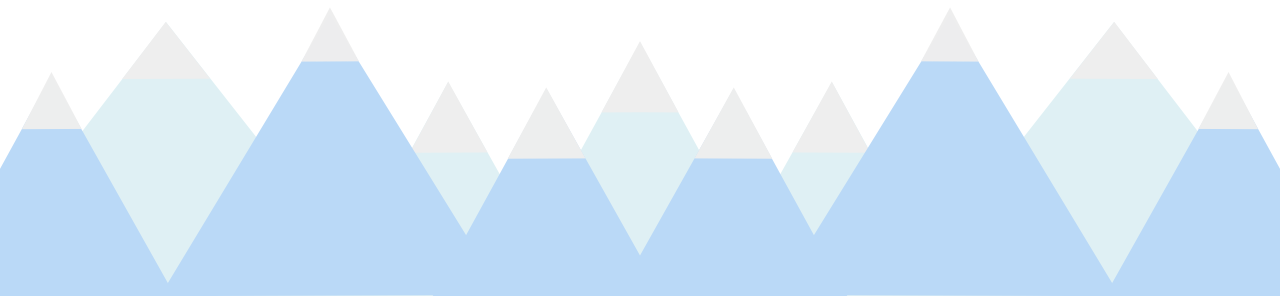
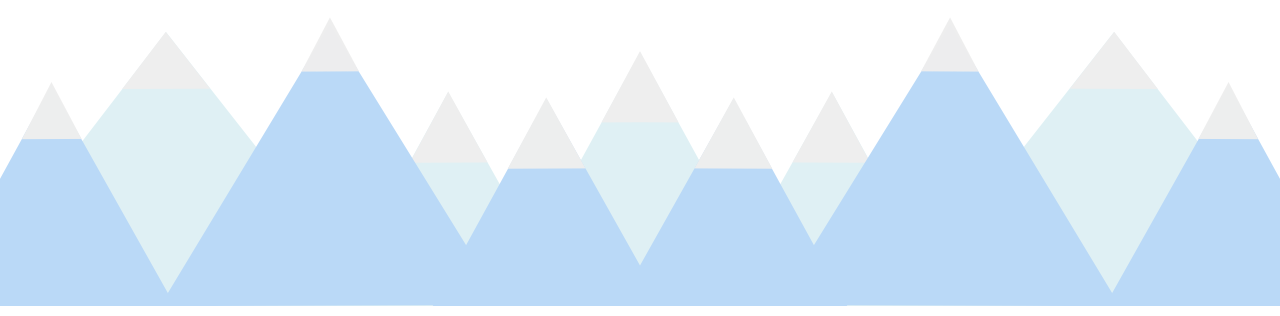
Added screen shaking

diff --git a/src/js/Game.js b/src/js/Game.js
@@ -26,7 +26,6 @@ CrashLanding.Game.prototype = {
         var bgColor = '#003e7b';
         this.game.shattered = {};
 
-
         this.game.shatteredIce = CrashLanding.Util.ShatterArray(this.game, 'sprites', ['icetile01', 'icetile02', 'icetile03']);
 
         this.game.waterExplode = this.game.add.audio('waterExplode');
@@ -35,7 +34,7 @@ CrashLanding.Game.prototype = {
         this.game.level1map = this.game.add.tilemap('level1');
         this.game.level1map.addTilesetImage('tileset', 'tiles');
         this.game.level1map.setCollisionByExclusion([]);
-        this.game.backgroundMountains = this.game.add.tileSprite(0, 64, this.game.level1map.widthInPixels, 296, 'mountainsbg');
+        this.game.backgroundMountains = this.game.add.tileSprite(0, 64, this.game.level1map.widthInPixels, 316, 'mountainsbg');
         this.game.backgroundMountains.fixedToCamera = true;
         this.game.world.sendToBack(this.game.backgroundMountains);
         this.game.layer1 = this.game.level1map.createLayer('Tile Layer 1');
@@ -44,8 +43,10 @@ CrashLanding.Game.prototype = {
         this.game.physics.arcade.gravity.y = gravityY;
 
         this.game.player = new CrashLanding.Sprite.Player(this.game, playerStartX, playerStartY);
+        this.game.shaker = new CrashLanding.Sprite.Shaker(this.game, playerStartX, playerStartY);
 
         this.game.camera.follow(this.game.player);
+
         this.game.cursors = this.game.input.keyboard.createCursorKeys();
         this.game.gameOver = false;
 

diff --git a/src/js/Input.js b/src/js/Input.js
@@ -37,6 +37,12 @@ CrashLanding.Util.handleInput = function (game, state) {
     if (game.input.keyboard.isDown(Phaser.Keyboard.M)) {
         game.music.pause();
     }
+    if (game.input.keyboard.isDown(Phaser.Keyboard.W)) {
+        game.shaker.shake(5, 2);
+    }
+    if (game.input.keyboard.isDown(Phaser.Keyboard.E)) {
+        game.camera.follow(game.player);
+    }
     if (game.gameOver == true) {
         if (game.input.keyboard.isDown(Phaser.Keyboard.SPACEBAR)) {
             state.quitGame();

diff --git a/src/js/Ground.js b/src/js/Ground.js
@@ -29,6 +29,9 @@ CrashLanding.Util.explodeGround = function explodeGround(game, exploder) {
                 sprite.body.velocity.y = game.rnd.integerInRange(yVelocityMin, yVelocityMax);
             });
             game.waterExplode.play('', 0, .3);
+            if (!game.shaker.shaking) {
+                game.shaker.shake(4, 1);
+            }
 
             var newTile = game.water.create(oldTile.worldX, oldTile.worldY, 'sprites', 'watertile');
             newTile.body.allowGravity = false;

diff --git a/index.html b/index.html
@@ -19,6 +19,7 @@
 	<script src="src/js/Input.js"></script>
 	<script src="src/js/ShatterSprite.js"></script>
 	<script src="src/js/ShatterArray.js"></script>
+	<script src="src/js/Shaker.js"></script>
 	<script src="src/js/MobileGamepad.js"></script>
 </head>
 <body>
